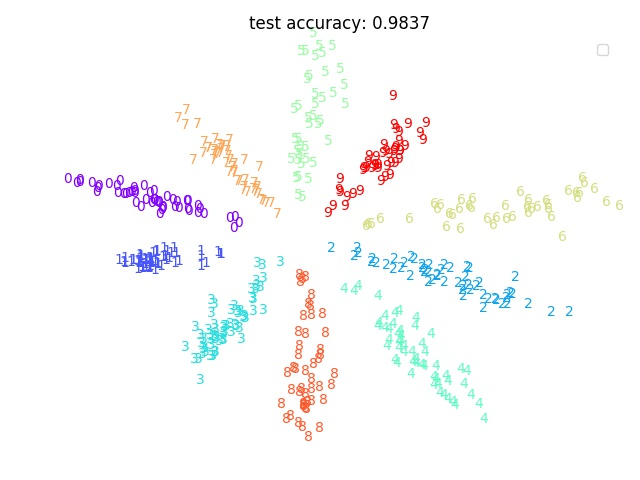
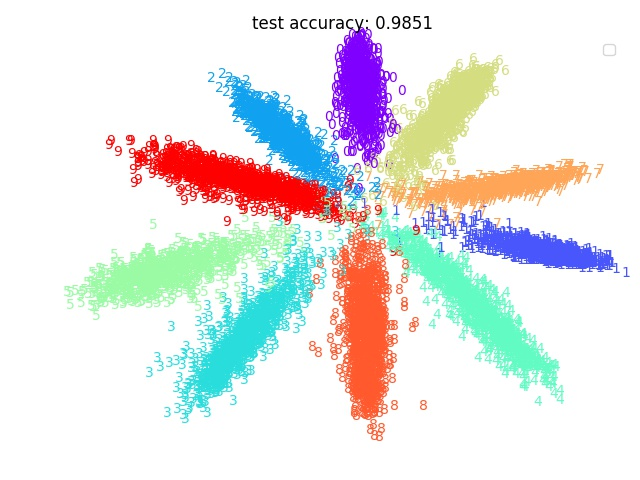
update loss

diff --git a/train.py b/train.py
@@ -1,5 +1,6 @@
 # -*- coding: utf-8 -*-
 import tensorflow as tf
+import numpy as np
 import model
 import matplotlib.pyplot as plt
 from tqdm import tqdm
@@ -30,9 +31,10 @@ mnist = input_data.read_data_sets("./MNIST_data", one_hot=False, reshape=False)
 
 # define training parameters
 lr = 0.001
-epochs = 10
+epochs = 20
 batch_size = 512
-batchs = 100 # the number of batchs per epoch
+train_batchs = 100 # the number of batchs per epoch
+test_batchs  = 20
 embedding_dim = 2 # 3
 
 
@@ -65,7 +67,7 @@ def train():
         train_acc = []; train_loss = []
         print('training loss type %d' %loss_type)
         for epoch in range(epochs):
-            for batch in tqdm(range(batchs)):
+            for batch in tqdm(range(train_batchs)):
                 batch_images, batch_labels = mnist.train.next_batch(batch_size)
                 feed_dict = {images:batch_images, labels:batch_labels}
                 _, _, batch_loss, batch_acc = sess.run([train_op, add_step_op, loss, accuracy], feed_dict)
@@ -73,14 +75,17 @@ def train():
                 train_loss.append(batch_loss)
         # testing process
         test_acc = 0.
-        for batch in range(100):
+        embeddings = np.zeros((test_batchs*batch_size, embedding_dim), dtype=np.float32)
+        nlabels = np.zeros(shape=(test_batchs*batch_size,), dtype=np.int32)
+        for batch in range(test_batchs):
+            i,j = batch*batch_size, (batch+1)*batch_size
             batch_images, batch_labels = mnist.test.next_batch(batch_size)
             feed_dict = {images:batch_images, labels:batch_labels}
-
-            _, batch_loss, batch_acc, embeddings = sess.run([train_op, loss, accuracy, network.embeddings], feed_dict)
+            _, batch_loss, batch_acc, embeddings[i:j,:] = sess.run([train_op, loss, accuracy, network.embeddings], feed_dict)
+            nlabels[i:j] = batch_labels
             test_acc += batch_acc
-        test_acc /= 100
-        yield train_acc, train_loss, test_acc, embeddings, batch_labels
+        test_acc /= test_batchs
+        yield train_acc, train_loss, test_acc, embeddings, nlabels
 
 
 def visualize(embedding, label, test_acc=0., picname=''):

diff --git a/model.py b/model.py
@@ -58,19 +58,19 @@ class Model(object):
         """
         w_init = tf.contrib.layers.xavier_initializer(uniform=False)
         with tf.name_scope('conv1'):
-            net = tf.layers.conv2d(inputs, 32, [3,3], strides=1, padding='same', kernel_initializer=w_init)
+            net = tf.layers.conv2d(inputs, 32, [5,5], strides=1, padding='same', kernel_initializer=w_init)
             net = tf.layers.batch_normalization(net, training=trainable)
             net = tf.nn.relu(net)
         with tf.name_scope('conv2'):
-            net = tf.layers.conv2d(net,    64, [3,3], strides=2, padding='same', kernel_initializer=w_init)
+            net = tf.layers.conv2d(net,    64, [5,5], strides=2, padding='same', kernel_initializer=w_init)
             net = tf.layers.batch_normalization(net, training=trainable)
             net = tf.nn.relu(net)
         with tf.name_scope('conv3'):
-            net = tf.layers.conv2d(net,   128, [3,3], strides=1, padding='valid',kernel_initializer=w_init)
+            net = tf.layers.conv2d(net,   128, [5,5], strides=1, padding='valid',kernel_initializer=w_init)
             net = tf.layers.batch_normalization(net, training=trainable)
             net = tf.nn.relu(net)
         with tf.name_scope('conv4'):
-            net = tf.layers.conv2d(net,   128, [3,3], strides=2, padding='valid',kernel_initializer=w_init)
+            net = tf.layers.conv2d(net,   256, [5,5], strides=2, padding='valid',kernel_initializer=w_init)
             net = tf.layers.batch_normalization(net, training=trainable)
             net = tf.nn.relu(net)
         net = tf.layers.flatten(net)
